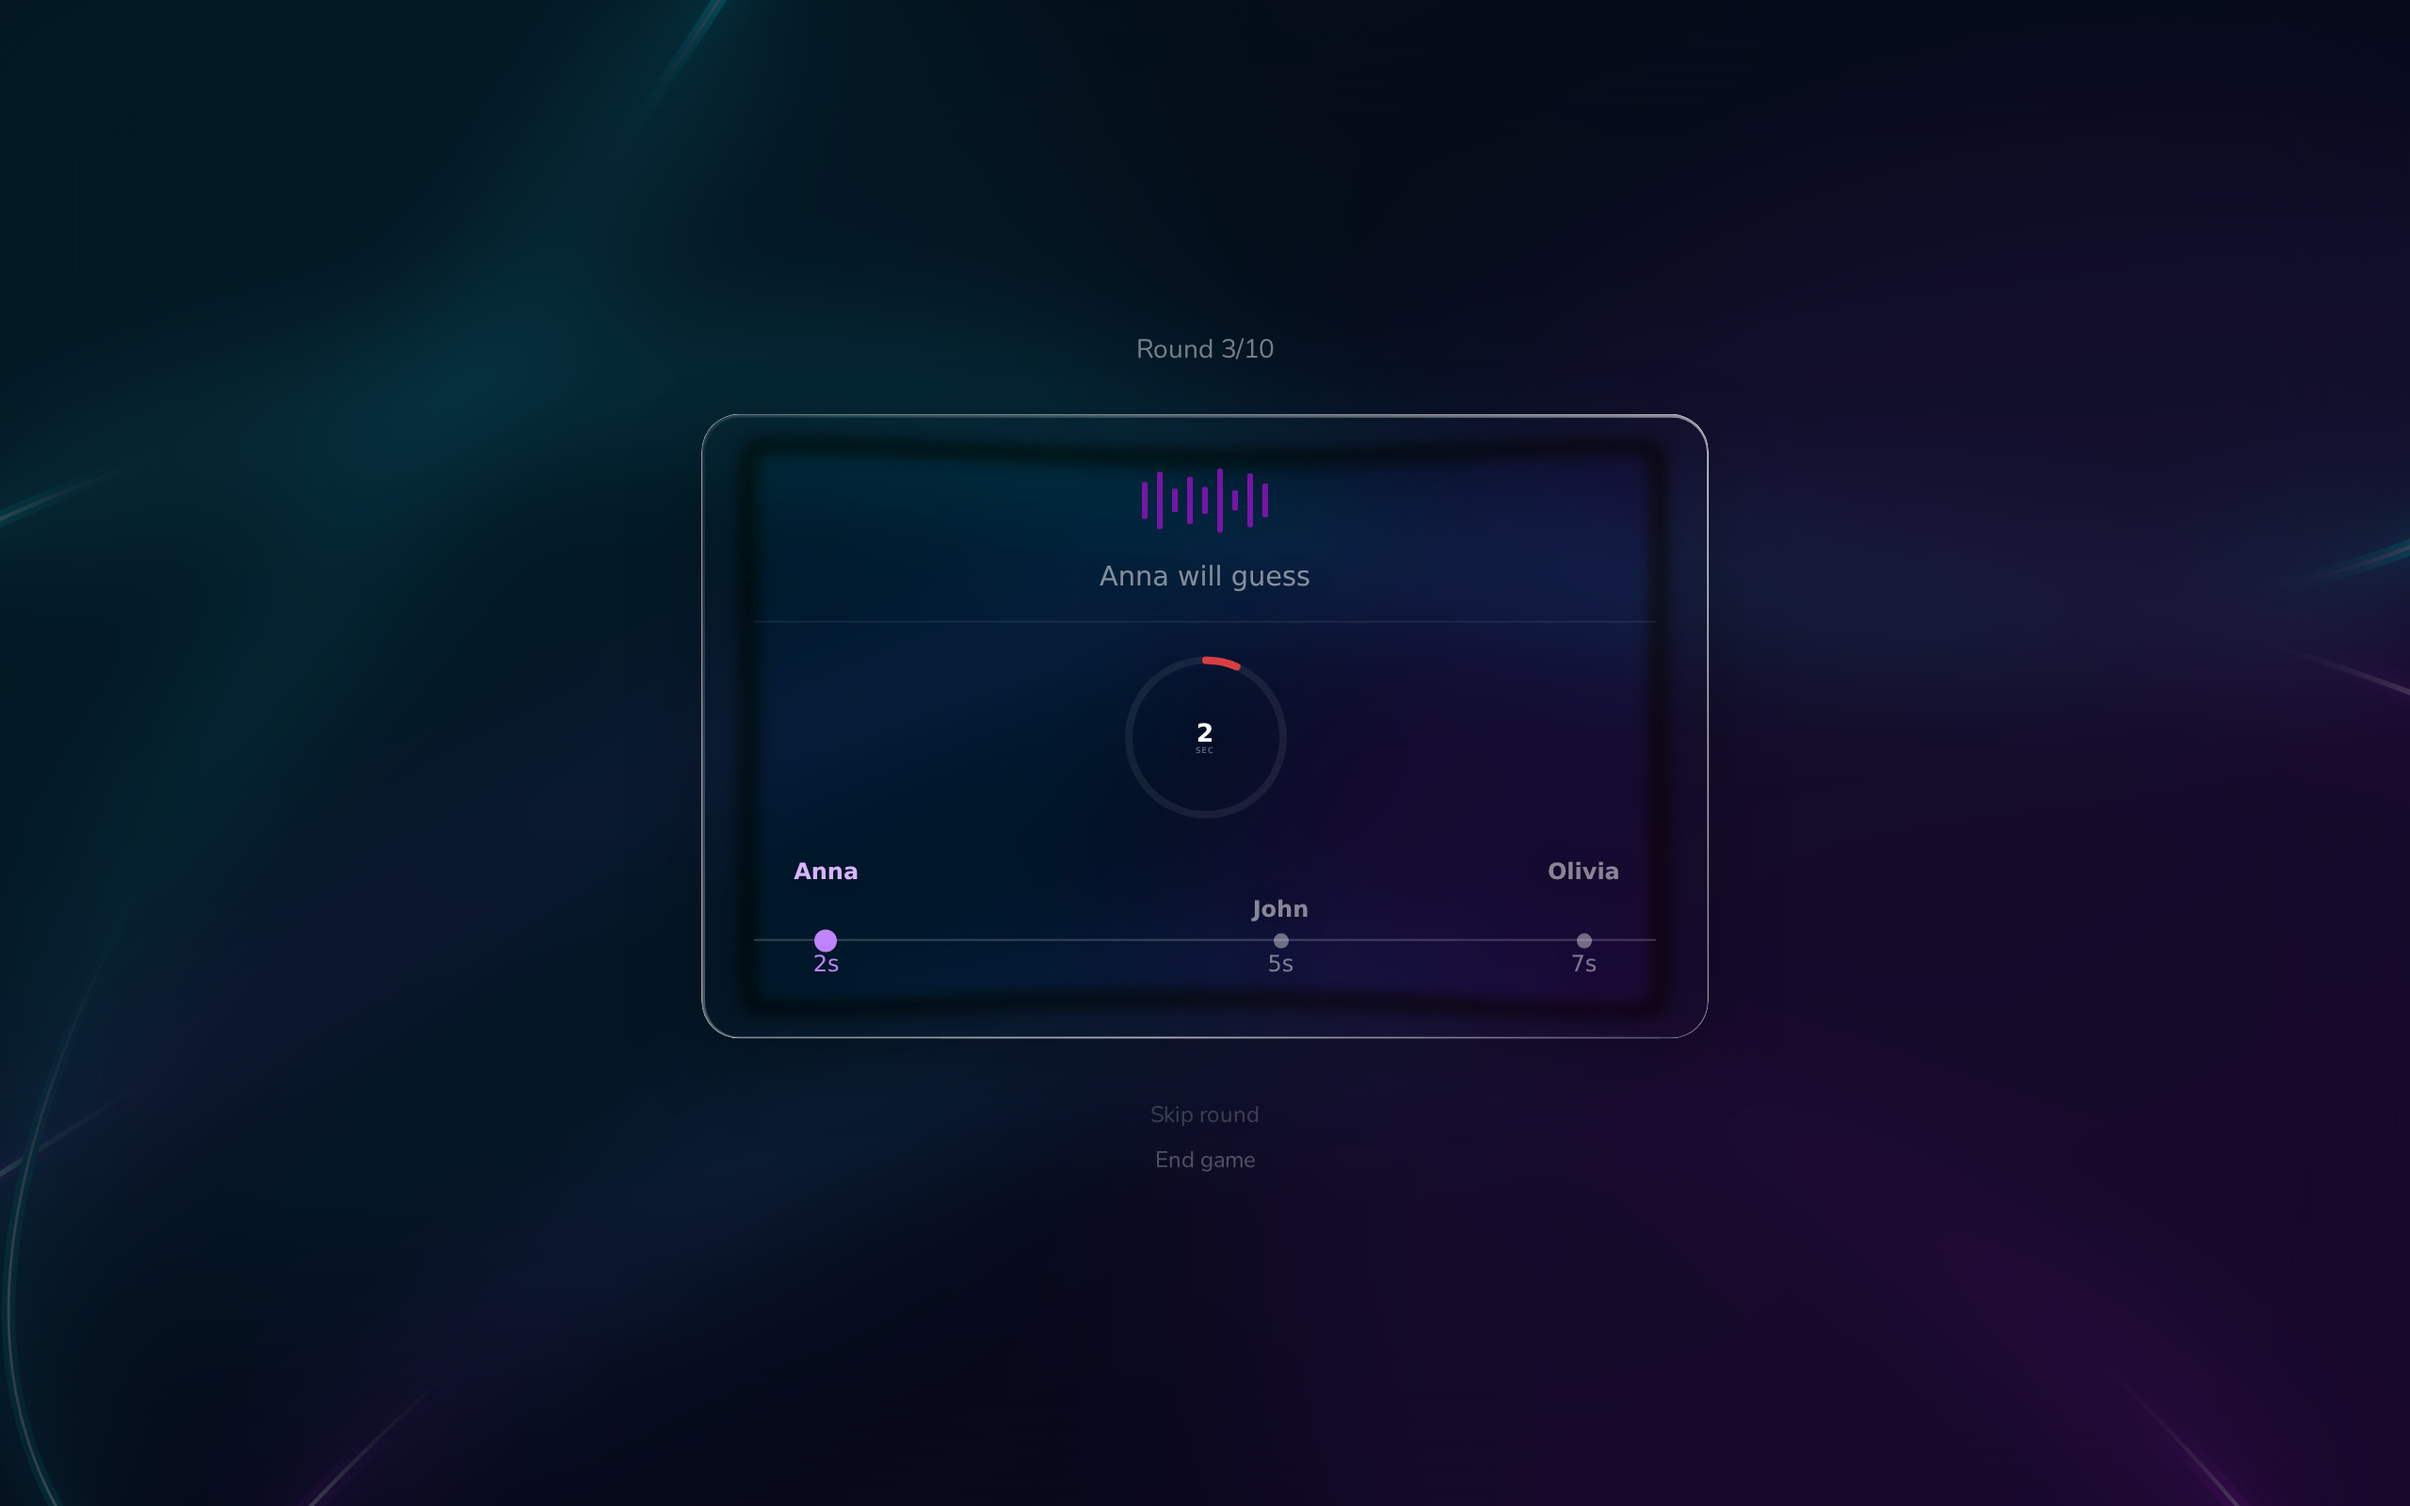
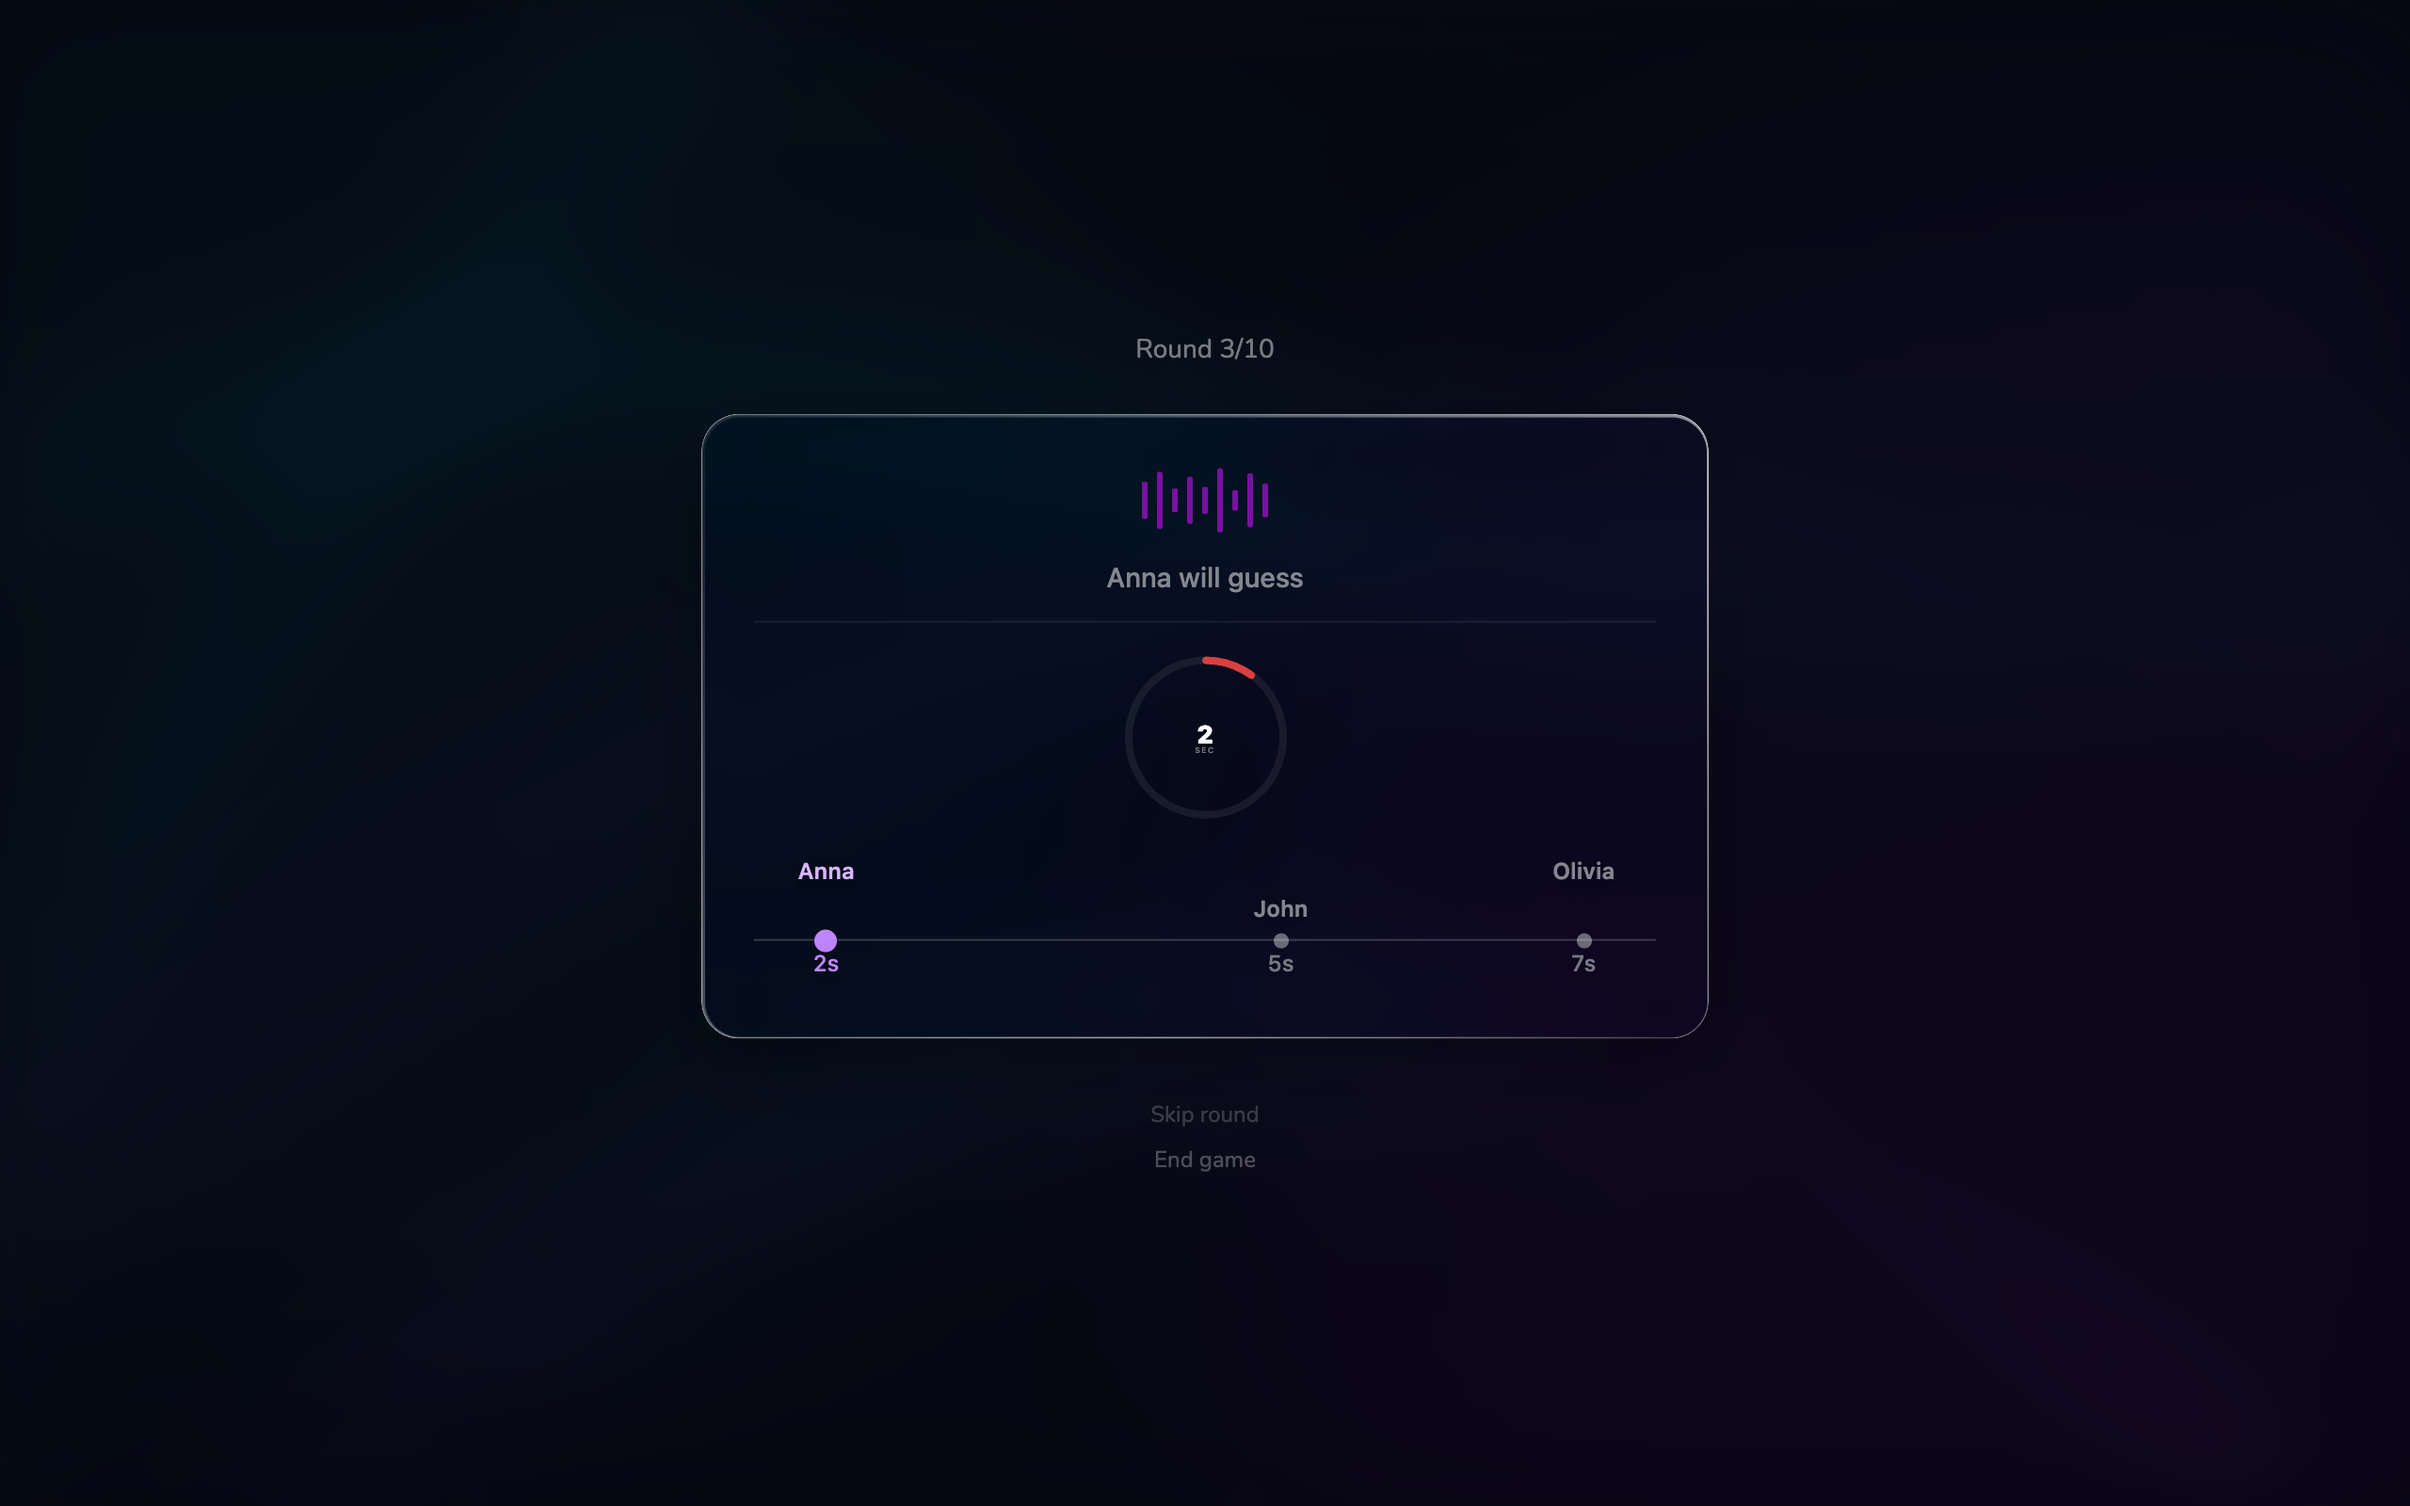
fix: remove nested backdrop filter artifacts

diff --git a/client/src/pages/host/PlayingView.tsx b/client/src/pages/host/PlayingView.tsx
@@ -97,8 +97,8 @@ export function PlayingView({ game }: Readonly<{ game: HostState }>) {
   const accent = roundAccent(isRace, isYear);
   return (
     <div className="relative min-h-screen screen-center-safe flex flex-col items-center justify-center p-6 gap-5 text-center overflow-x-hidden overflow-y-auto overscroll-contain">
-      <img src={`${import.meta.env.BASE_URL}backgrounds/background4.svg`} alt="" aria-hidden="true" style={{ position: 'fixed', inset: 0, width: '100%', height: '100%', objectFit: 'cover', zIndex: 0 }} />
-      <div style={{ position: 'fixed', inset: 0, zIndex: 1, background: 'rgba(5,5,14,0.56)', backdropFilter: 'blur(36px)' }} />
+      <img src={`${import.meta.env.BASE_URL}backgrounds/background4.svg`} alt="" aria-hidden="true" style={{ position: 'fixed', inset: 0, width: '100%', height: '100%', objectFit: 'cover', zIndex: 0, filter: 'blur(36px)', transform: 'scale(1.04)' }} />
+      <div style={{ position: 'fixed', inset: 0, zIndex: 1, background: 'rgba(5,5,14,0.82)' }} />
       <div className="flex flex-col items-center gap-5 text-center w-full" style={{ position: 'relative', zIndex: 2 }}>
         <p className="text-white/45 text-sm">Round {roundIndex + 1}/{totalRounds}</p>
         <PartyBadge party={party} />

diff --git a/client/src/pages/host/RevealView.tsx b/client/src/pages/host/RevealView.tsx
@@ -348,9 +348,9 @@ function RevealShell({
           src={`${import.meta.env.BASE_URL}backgrounds/background3-2.png`}
           alt=""
           aria-hidden="true"
-          style={{ position: 'absolute', inset: 0, width: '100%', height: '100%', objectFit: 'cover', zIndex: 0, transform: 'rotate(180deg)' }}
+          style={{ position: 'absolute', inset: 0, width: '100%', height: '100%', objectFit: 'cover', zIndex: 0, filter: 'blur(32px)', transform: 'rotate(180deg) scale(1.04)' }}
         />
-        <div style={{ position: 'absolute', inset: 0, zIndex: 1, background: 'rgba(5,5,14,0.56)', backdropFilter: 'blur(32px)' }} />
+        <div style={{ position: 'absolute', inset: 0, zIndex: 1, background: 'rgba(5,5,14,0.82)' }} />
         {/* Absolutely positioned rather than a flex row of its own: it's the
             only thing in the header, so giving it a dedicated row just to
             hold one small label wastes a full gap's worth of height on every
